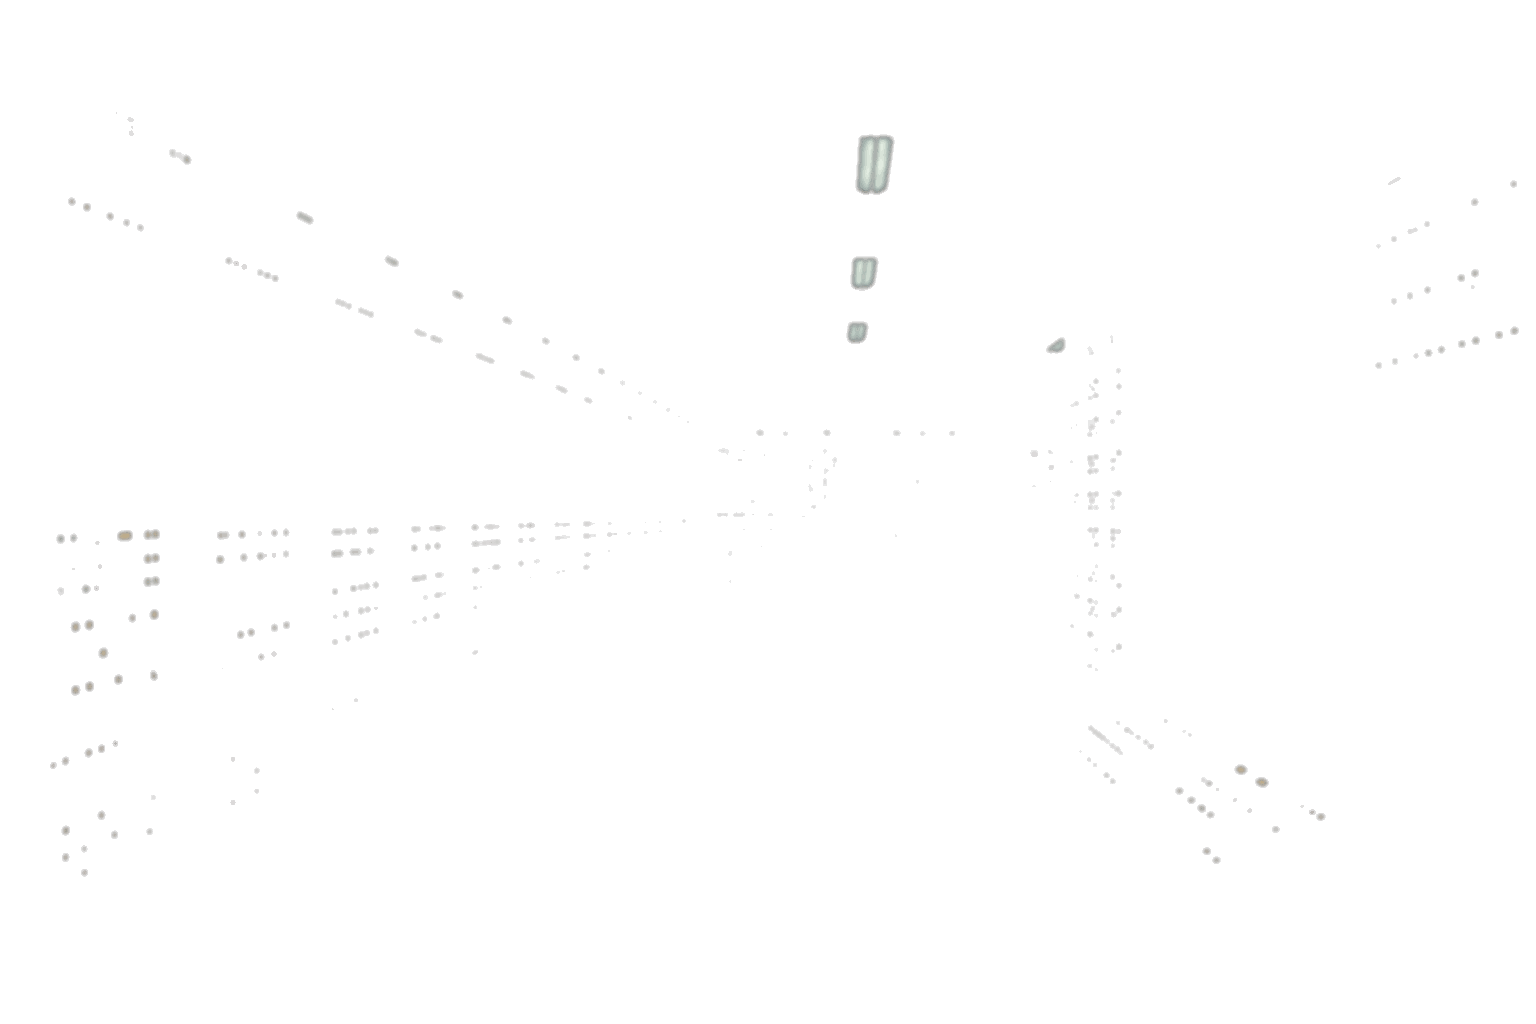
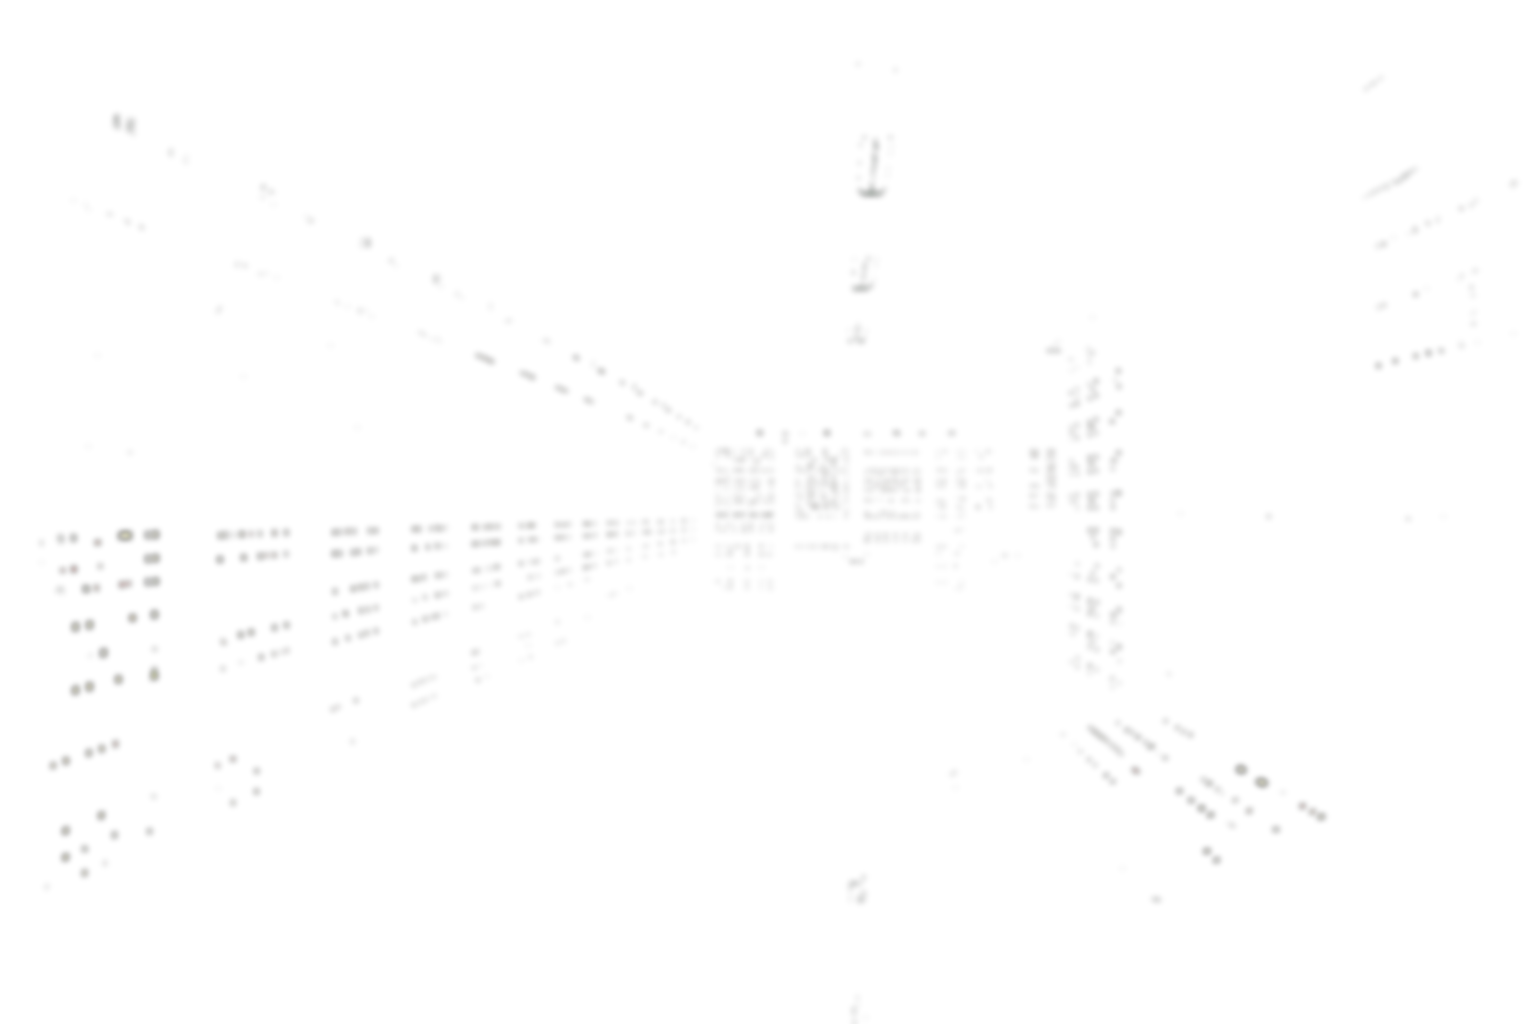
Fix background layers: exclude overhead lights, add CRT text scroll
- Overhead fluorescent lights removed from LED overlay
- CRT screens now shimmer with text-scroll effect
- LED indicators blink in stepped pattern like real mainframe lights

Changed region(s): [[0.5312, 0.125, 0.5938, 0.1875], [0.5312, 0.25, 0.5938, 0.2812], [0.5312, 0.3125, 0.5625, 0.3438]]

diff --git a/index.html b/index.html
@@ -129,33 +129,33 @@
       position: fixed;
       inset: 0;
       background: url('assets/images/crt-glow.png') center/cover no-repeat;
-      opacity: 0.6;
       z-index: 0;
-      animation: crtFlicker 4s ease-in-out infinite;
+      animation: crtScroll 2s linear infinite, crtFlicker 0.15s steps(2) infinite;
+    }
+
+    @keyframes crtScroll {
+      0% { background-position: center 0; }
+      100% { background-position: center 3px; }
     }
 
     @keyframes crtFlicker {
-      0%, 100% { opacity: 0.5; filter: brightness(1); }
-      30% { opacity: 0.7; filter: brightness(1.4); }
-      50% { opacity: 0.55; filter: brightness(0.8); }
-      80% { opacity: 0.75; filter: brightness(1.3); }
+      0% { opacity: 0.7; }
+      50% { opacity: 1; }
     }
 
     .bg-lights {
       position: fixed;
       inset: 0;
       background: url('assets/images/lights-glow.png') center/cover no-repeat;
-      opacity: 0.7;
       z-index: 0;
-      animation: lightsPulse 3s ease-in-out infinite alternate;
+      animation: lightsPulse 1.5s steps(3) infinite alternate;
     }
 
     @keyframes lightsPulse {
-      0% { opacity: 0.4; }
-      25% { opacity: 0.8; }
-      50% { opacity: 0.5; }
-      75% { opacity: 0.9; }
-      100% { opacity: 0.6; }
+      0% { opacity: 0.5; filter: brightness(0.8); }
+      33% { opacity: 1; filter: brightness(1.8); }
+      66% { opacity: 0.6; filter: brightness(1.2); }
+      100% { opacity: 0.9; filter: brightness(1.5); }
     }
 
     .bg-grid {
